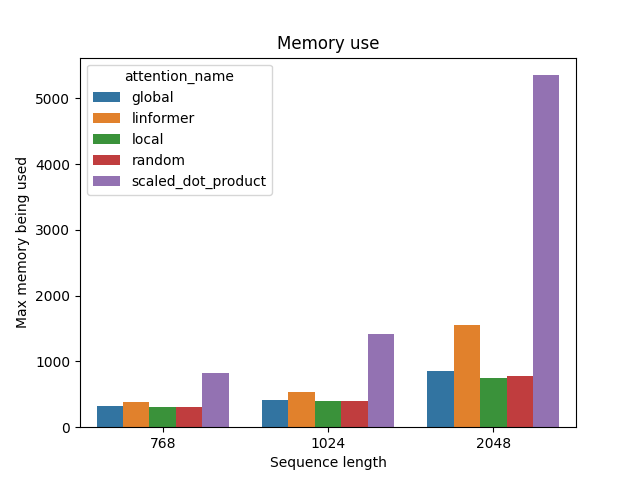
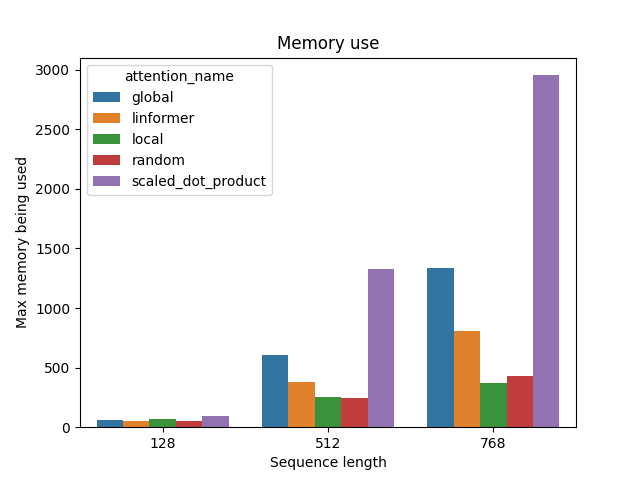
Cleanup some batching leftovers (#70)
* Add current plots for reference
* Remove unnecessary code
* Had to do extra casting due to limitations of coalesce on bool tensors
* linting

diff --git a/xformers/components/attention/global_tokens.py b/xformers/components/attention/global_tokens.py
@@ -64,14 +64,6 @@ class GlobalAttention(Attention):
         if self.attention_mask.device != q.device:
             self.attention_mask = self.attention_mask.to(q.device)
 
-        # Handle the batch dimension without duplicating memory.
-        # Only needed in the sparse case for now,the dense case broadcasts
-        if self.attention_mask.ndim != q.ndim and self.attention_mask.is_sparse:
-            # FIXME: @lefaudeux this takes space in memory and is not really useful all things considered
-            self.attention_mask = (
-                self.attention_mask.to_dense().expand(q.shape[0], -1, -1).to_sparse()
-            )
-
     def forward(
         self,
         q: torch.Tensor,

diff --git a/xformers/components/attention/local.py b/xformers/components/attention/local.py
@@ -75,10 +75,6 @@ class LocalAttention(Attention):
         if self.causal:
             mask &= causal_1d_pattern(shape[1])
 
-        # Take the batch dimension into account
-        # FIXME: not needed with https://github.com/fairinternal/xformers/issues/42
-        mask = mask.expand(shape[0], shape[1], shape[1])
-
         # Sparsify if that makes sense
         if torch.count_nonzero(mask).item() / mask.numel() < _DENSITY_THRESHOLD:
             mask = mask.to_sparse()

diff --git a/xformers/components/attention/core.py b/xformers/components/attention/core.py
@@ -55,7 +55,9 @@ def _matmul_with_mask(
         return mask.matmul_with_mask(a, b)
     if mask.is_sparse:
         # perform broadcasting if needed
-        mask = _broadcast_batch(mask, a.shape)
+        mask = _broadcast_batch(mask, a.shape[0])
+        # coalesced is not implemented for bool tensors, so need to cast
+        mask = mask.to(dtype=a.dtype)  # type: ignore  # mypy is missing the catch above
     return torch.ops.xformers.matmul_with_mask(a, b, mask)
 
 

diff --git a/xformers/components/attention/random.py b/xformers/components/attention/random.py
@@ -53,9 +53,6 @@ class RandomAttention(Attention):
     def _get_rand_mask(self, shape: torch.Size) -> torch.Tensor:
         sparsity = 1 - self.r
         mask = random_pattern(shape[1], sparsity=sparsity)
-        mask = mask.unsqueeze(0).expand(
-            shape[0], -1, -1
-        )  # duplicate the mask over the batch dimension
 
         # Sparsity threshold, below that having a sparse matrix is more efficient
         if self.r < _DENSITY_THRESHOLD:
